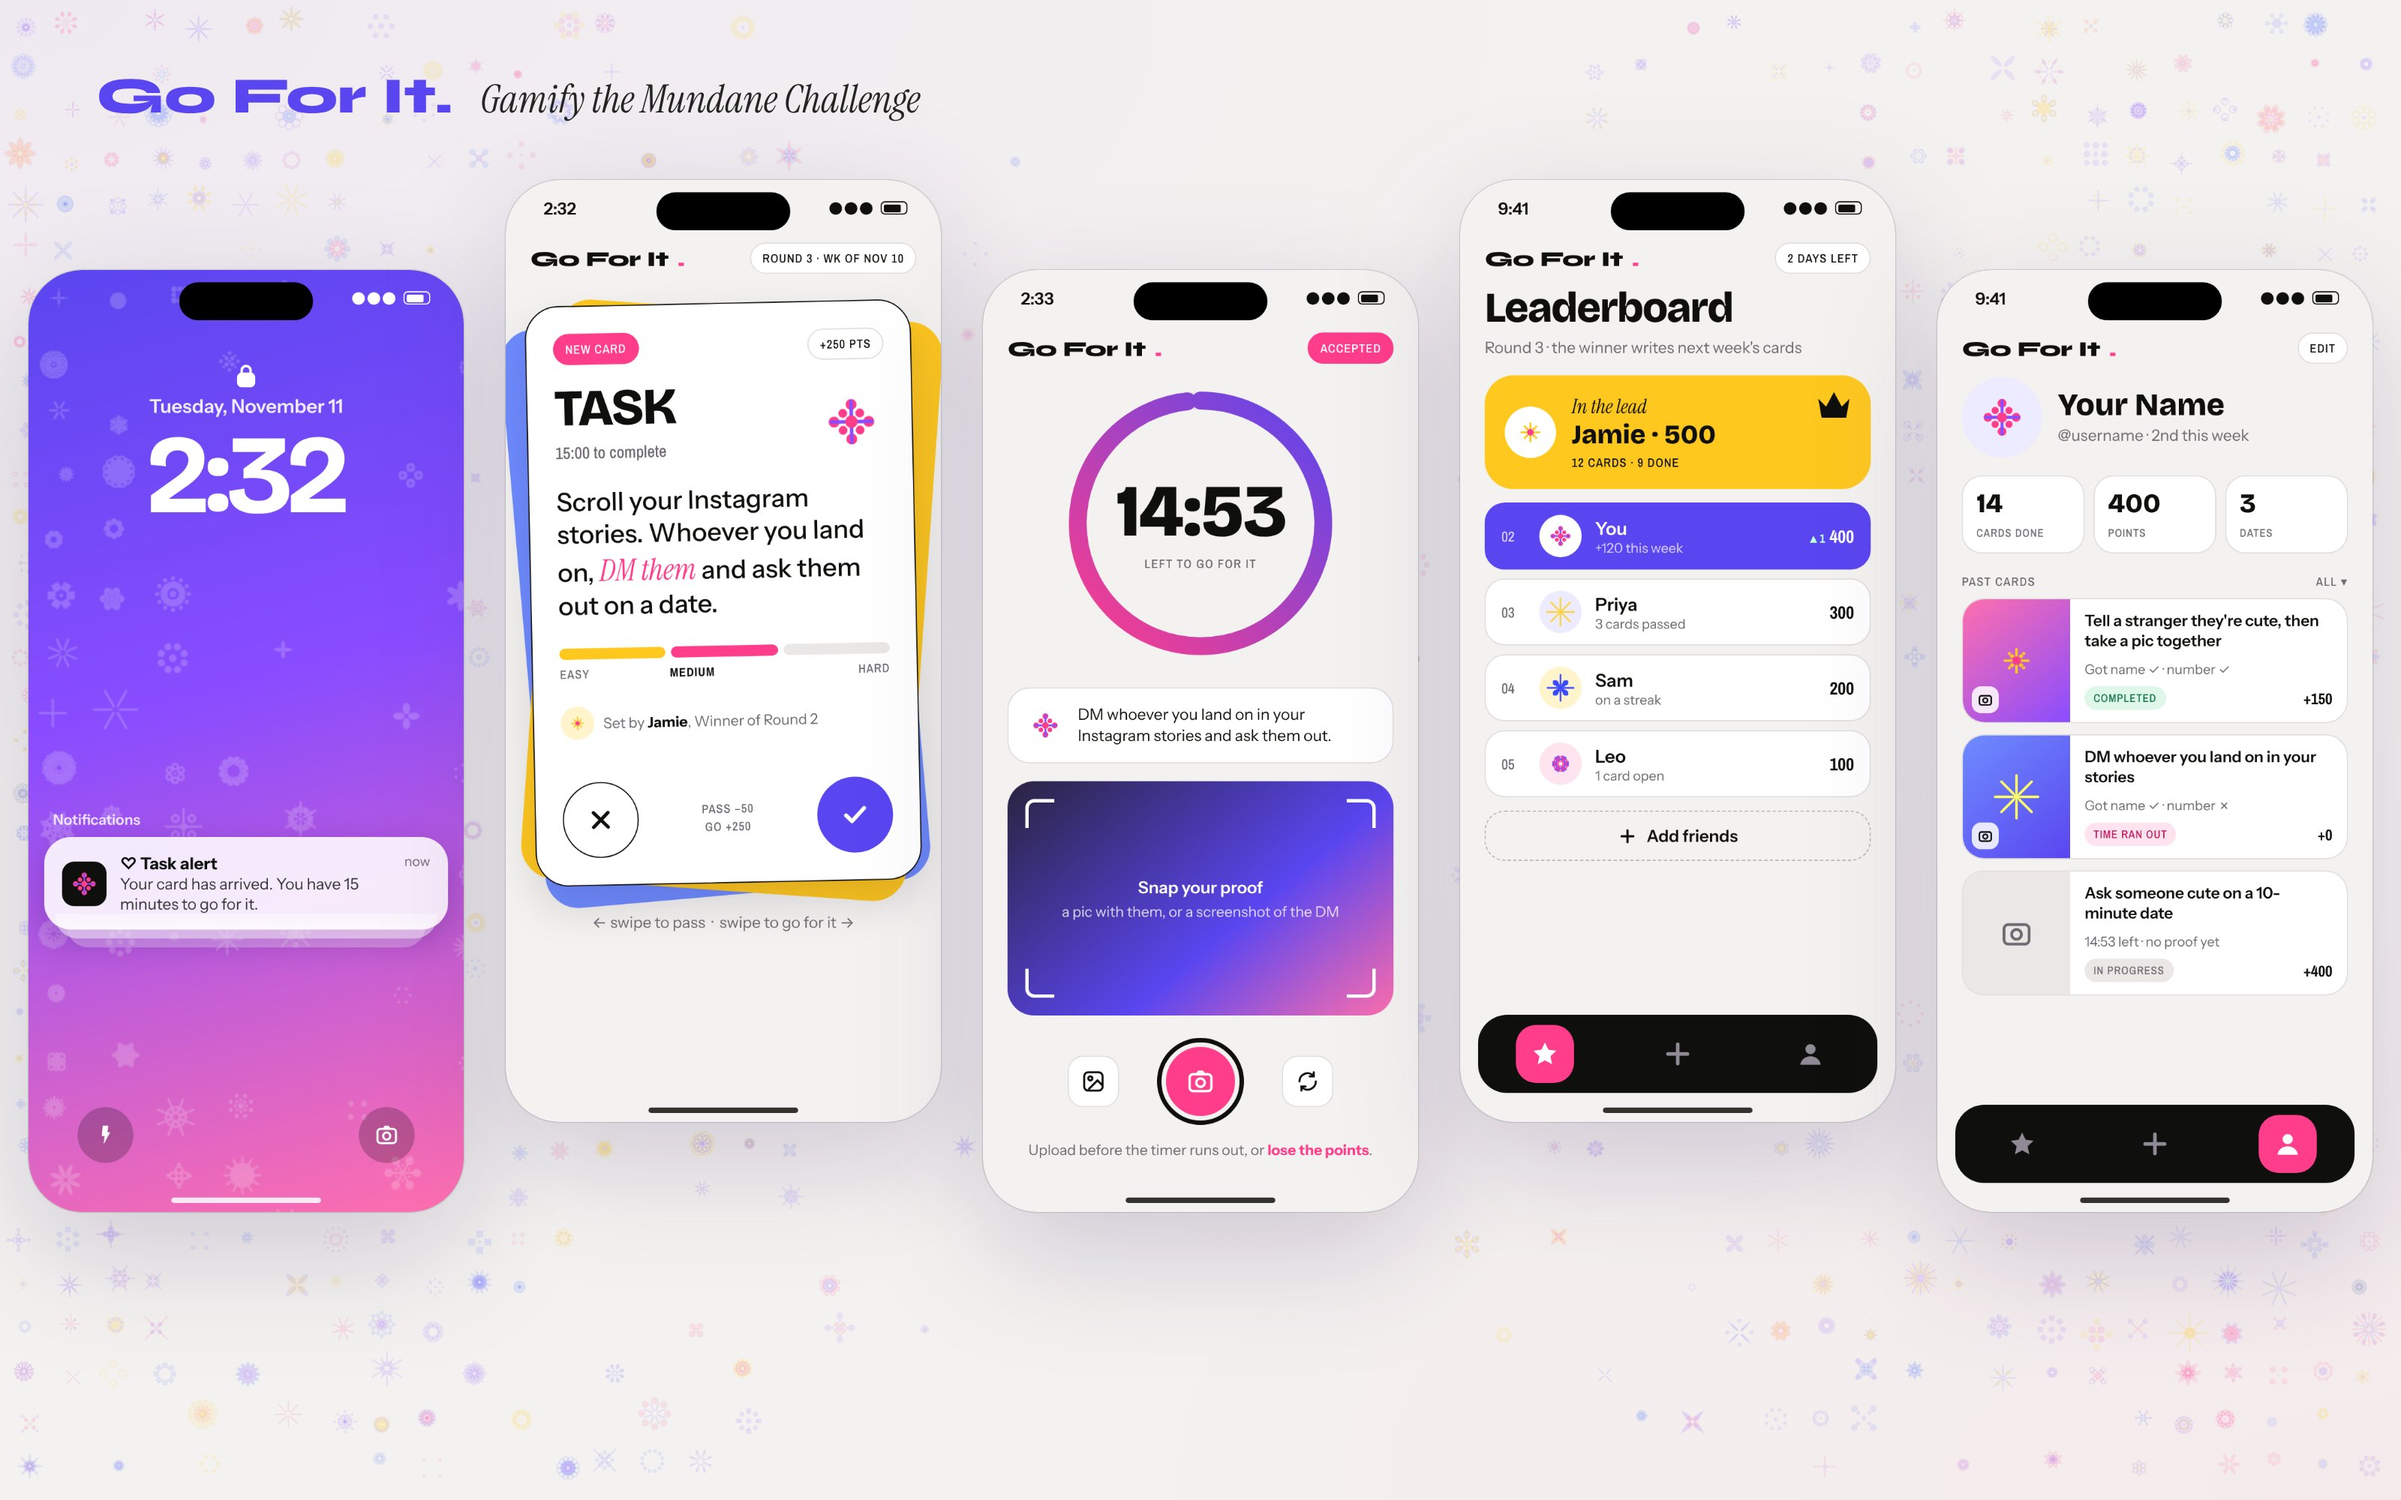
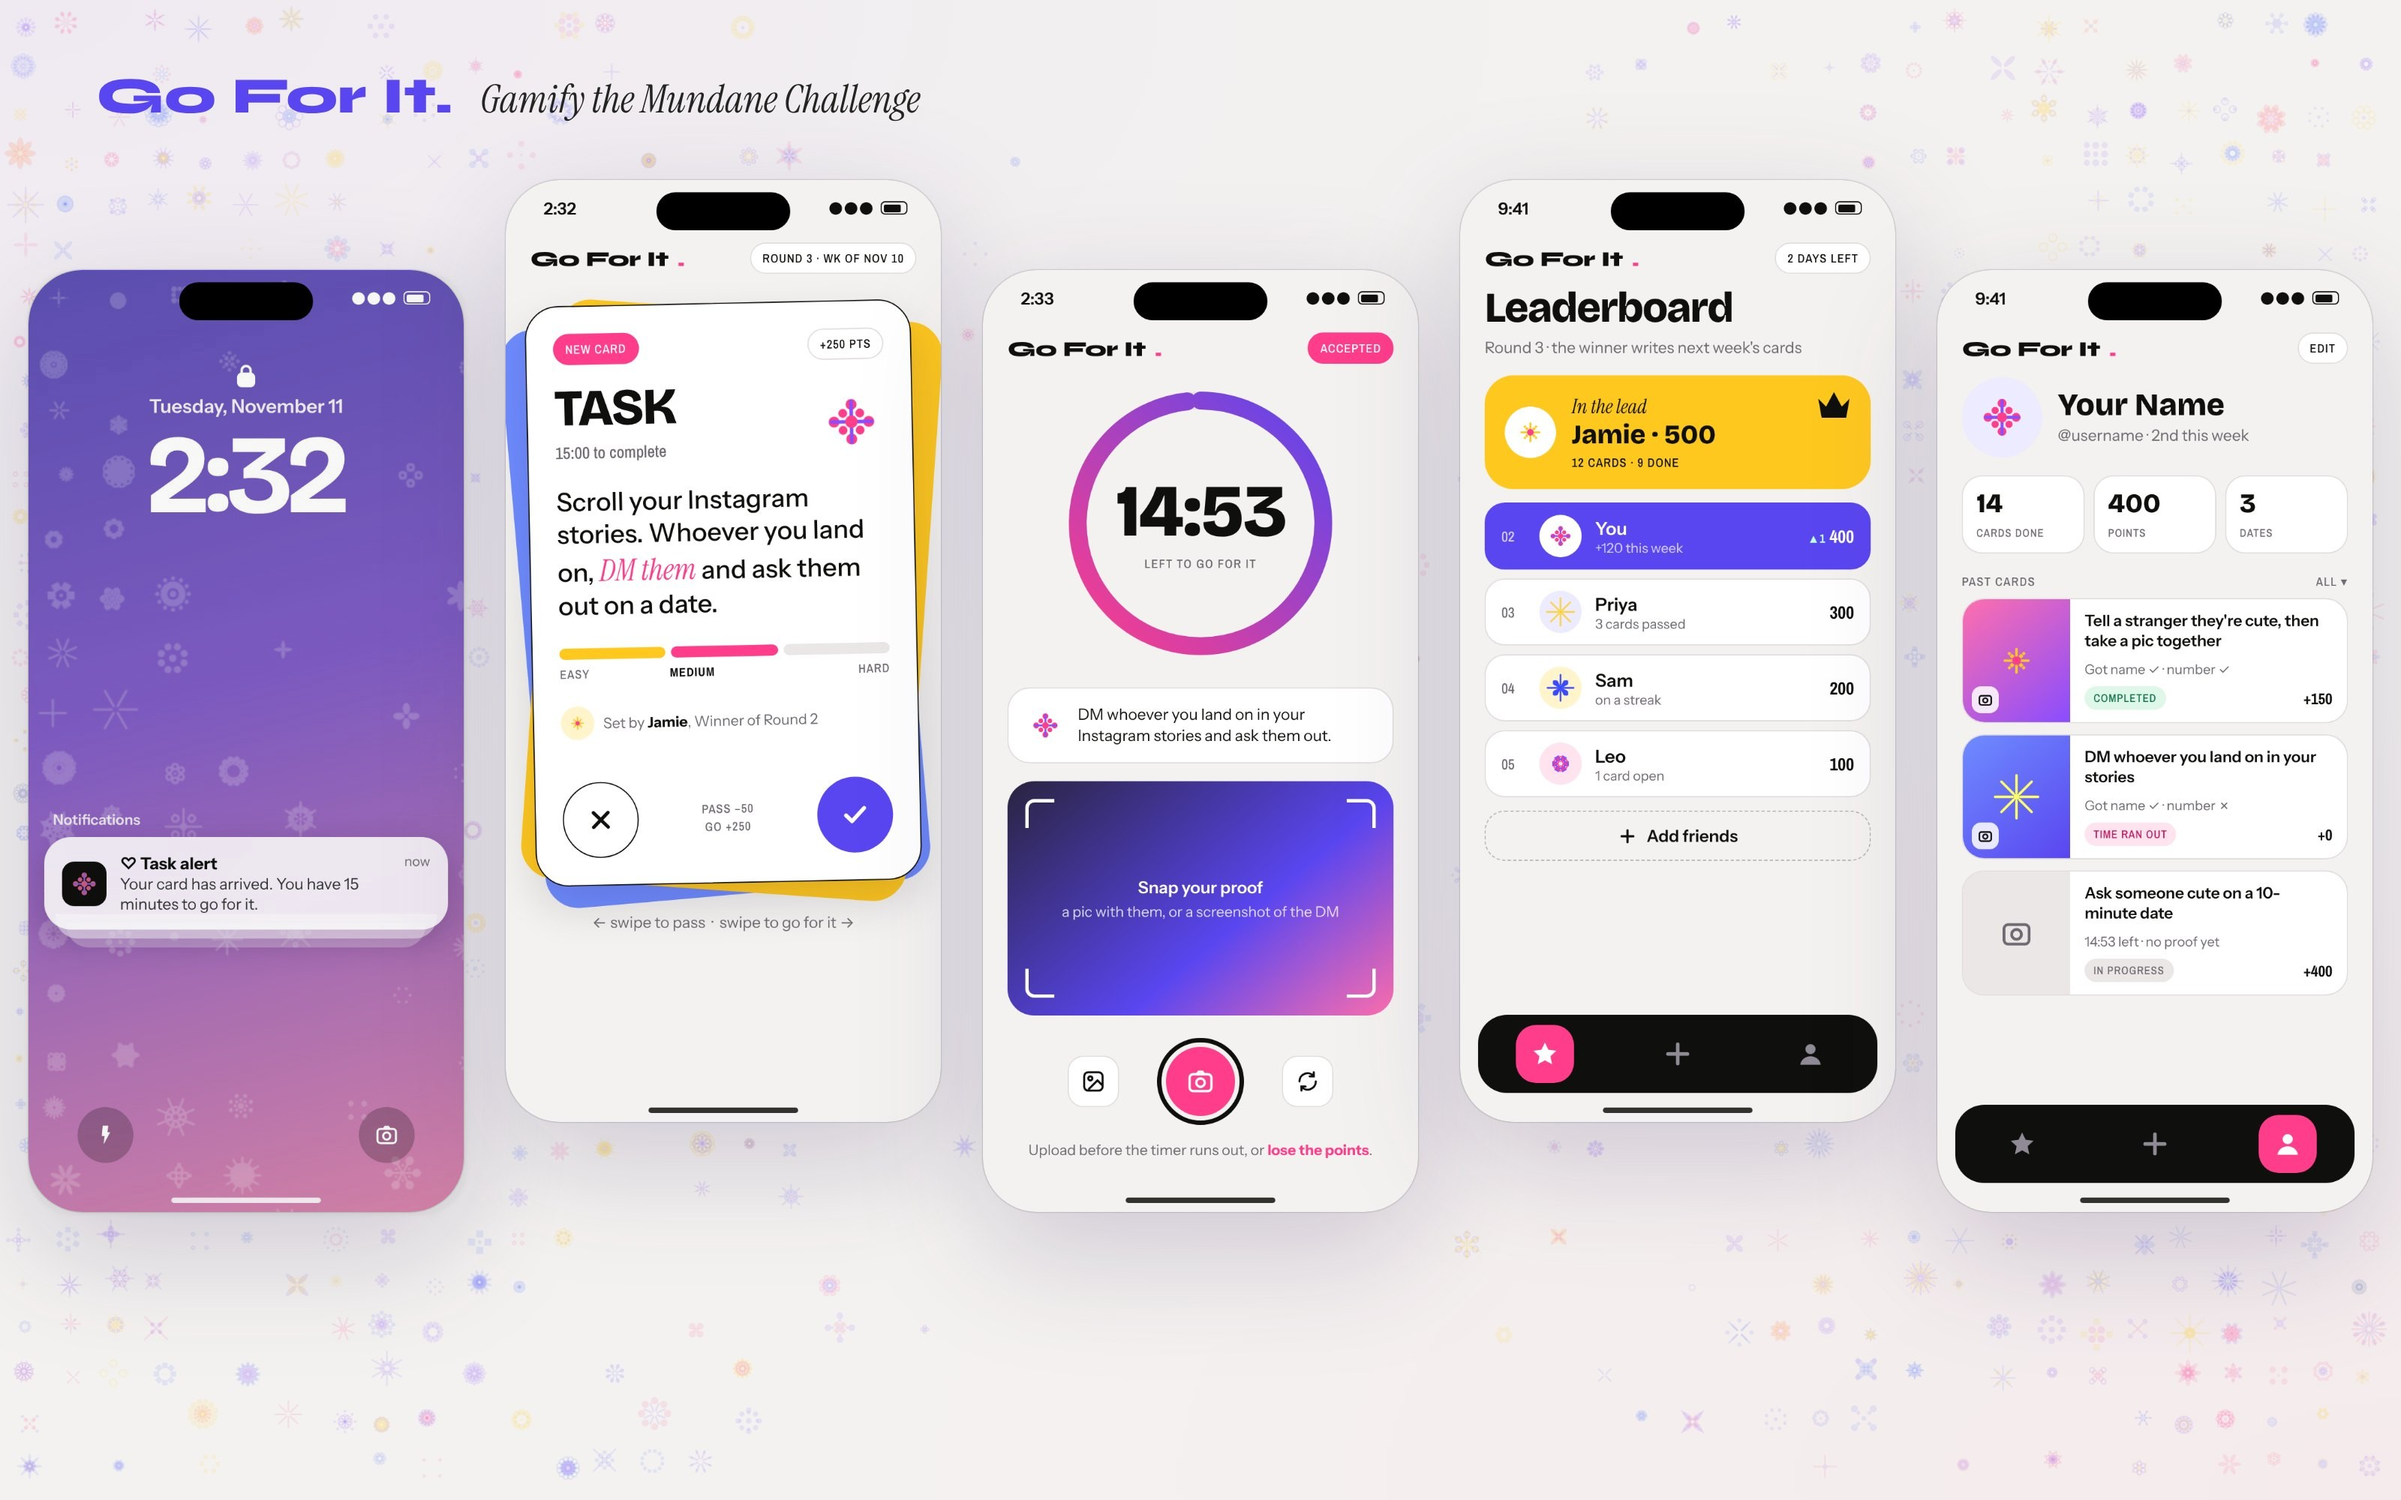
Go For It: tone down lock screen wallpaper
Claude-Session: https://claude.ai/code/session_01UHrP7f3T6PvekE7nxDfNFQ

Changed region(s): [[0.0, 0.155, 0.2188, 0.806]]

diff --git a/content/projects/gamify-the-mundane.js b/content/projects/gamify-the-mundane.js
@@ -13,7 +13,7 @@ addProject({
   blurb: "A game that dares you to go meet someone new.",
   summary:
     "The prompt: gamify something you find mundane or boring. I picked dating apps, and designed Go For It, a game where friends get surprise dares to meet new people, race a timer, and compete on a weekly leaderboard.",
-  cover: { src: "assets/digital/gamify/cover.jpg?v=202611150414", ratio: "16/10", alt: "Go For It hi-fi screens" },
+  cover: { src: "assets/digital/gamify/cover.jpg?v=202611160009", ratio: "16/10", alt: "Go For It hi-fi screens" },
 
   sections: [
     // "brief": labeled lines (label: answer), shown in a bold display font
@@ -43,7 +43,7 @@ addProject({
     { group: "Designing the Game", type: "text", heading: "The Profile",
       body: "The profile tab keeps a history of every card: completion status, the photo proof, points earned, and the fun extras, like whether you got their name and number, whether you'll actually go on a date, and a 1–10 rating. It becomes a little portfolio of the people you met by taking a chance." },
     { group: "From Lo-fi to Hi-fi", type: "image", heading: "Lo-fi Wireframes", src: "assets/digital/gamify/lofi-wireframes.png", ratio: "1500/952", caption: "Task alert → task card → countdown, and the three tabs" },
-    { group: "From Lo-fi to Hi-fi", type: "image", heading: "Lo-fi to Hi-fi", src: "assets/digital/gamify/lofi-to-hifi.jpg", ratio: "3200/2050" },
+    { group: "From Lo-fi to Hi-fi", type: "image", heading: "Lo-fi to Hi-fi", src: "assets/digital/gamify/lofi-to-hifi.jpg?v=202611160009", ratio: "3200/2050" },
     { group: "From Lo-fi to Hi-fi", type: "screens", heading: "Details", items: [
       { label: "A · Locked state", title: "Task Generator", src: "assets/digital/gamify/screen-generator-locked.png",
         body: "The tab everyone wants. It stays locked unless you're Winner of the Week.",

diff --git a/index.html b/index.html
@@ -8,13 +8,13 @@
 <link rel="preconnect" href="https://fonts.googleapis.com">
 <link rel="preconnect" href="https://fonts.gstatic.com" crossorigin>
 <link rel="stylesheet" href="https://fonts.googleapis.com/css2?family=Archivo:wdth,wght@62..125,700..800&family=Bricolage+Grotesque:opsz,wdth,wght@12..96,75..100,400..800&family=Instrument+Sans:wght@400;500;600&family=Instrument+Serif:ital@1&family=Syne:wght@700..800&family=Archivo+Narrow:wght@500;600;700&family=Caveat:wght@500;600&display=swap">
-<link rel="stylesheet" href="css/style.css?v=202611160002">
+<link rel="stylesheet" href="css/style.css?v=202611160009">
 </head>
 <body>
 <div id="app"></div>
-<script>window.SITE_VERSION = "202611160002";</script>
-<script src="content/site.js?v=202611160002"></script>
-<script src="js/glyphs.js?v=202611160002"></script>
-<script src="js/app.js?v=202611160002"></script>
+<script>window.SITE_VERSION = "202611160009";</script>
+<script src="content/site.js?v=202611160009"></script>
+<script src="js/glyphs.js?v=202611160009"></script>
+<script src="js/app.js?v=202611160009"></script>
 </body>
 </html>

diff --git a/proto/gamify.html b/proto/gamify.html
@@ -17,7 +17,7 @@ html,body{height:100%;background:transparent}body{background:transparent;font-fa
 .mono{font-family:var(--mono)}
 canvas.g{display:block}
 /* ---------- lock ---------- */
-.lock{background:linear-gradient(165deg,#5a46f0 0%,#8a4dff 45%,#ff6fae 100%);color:#fff}
+.lock{background:linear-gradient(165deg,#594eae 0%,#7d5abf 45%,#d280a4 100%);color:#fff}
 .lock .sb{color:#fff}.lock .home-ind{background:#fff}
 .lock .fieldbg{position:absolute;inset:0;opacity:.2}
 .lock .clock{position:relative;text-align:center;margin-top:34px}
